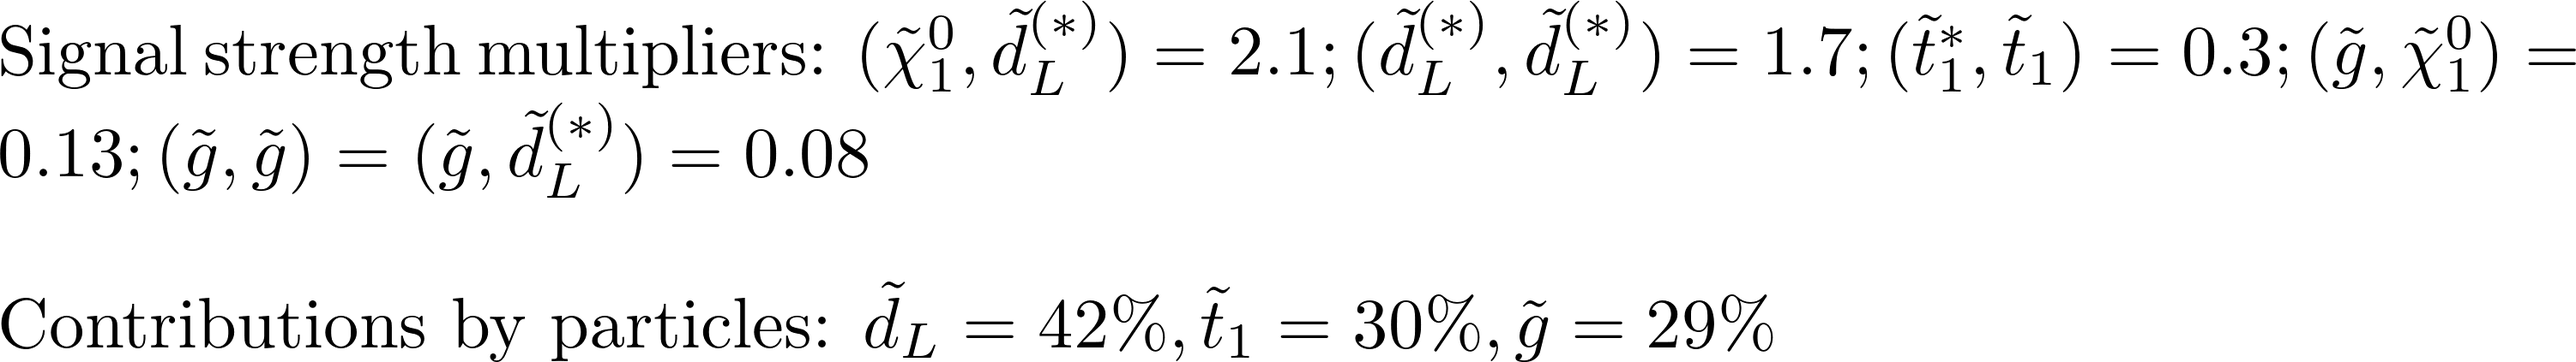
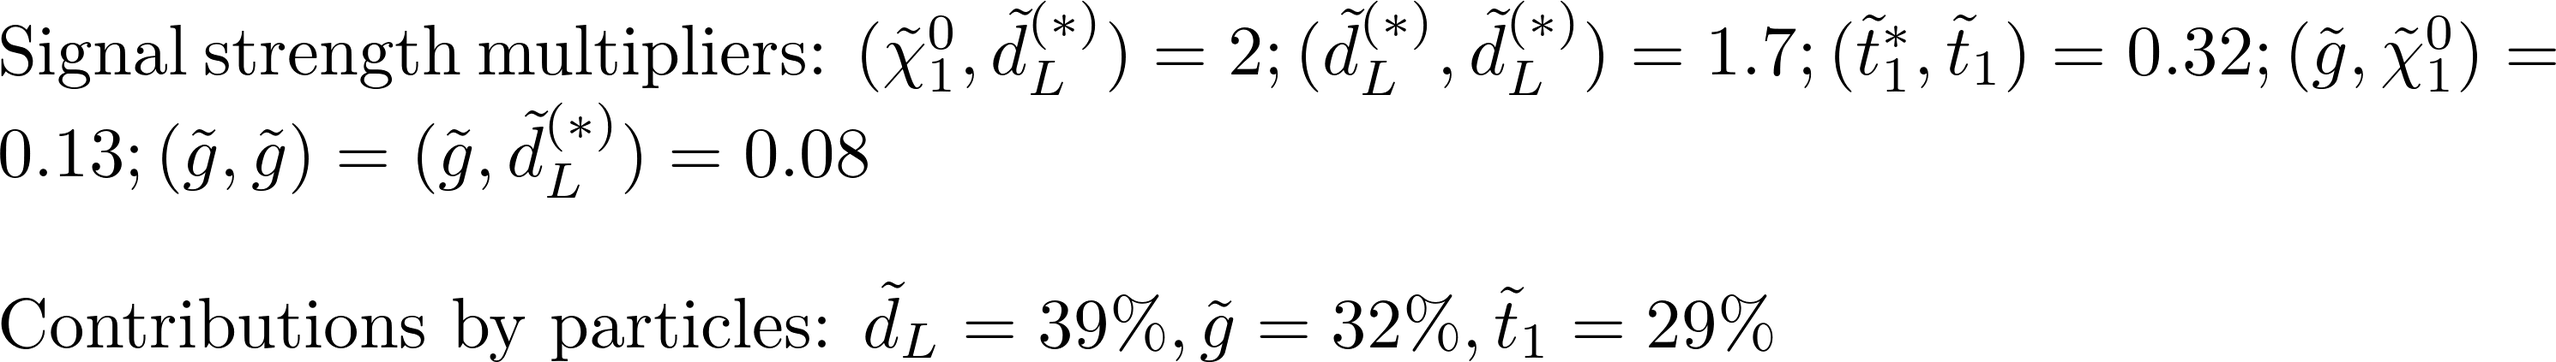
automated update by plotHiscore.py

diff --git a/protomodels/latestsignal/index.html b/protomodels/latestsignal/index.html
@@ -1,32 +1,32 @@
 <html>
 <body>
 <center>
-<table><td><h1>Current best protomodel: K=5.30, Z=3.03</h1><td><img height=60px src=https://smodels.github.io/pics/banner.png></table>
+<table><td><h1>Current best protomodel: K=5.33, Z=3.03</h1><td><img height=60px src=https://smodels.github.io/pics/banner.png></table>
 </center>
-<b><a href=./hiscore.slha>ProtoModel</a> <a href=./pmodel.py>(dict)</a> produced with <a href=https://smodels.github.io/docs/Validation123signal1>database v1.2.3signal1</a>, combination strategy <a href=./matrix_aggressive.png>aggressive</a> in step 73.</b> Z plots for: <a href=./M1000022.png?1707035>~&chi;<sub>1</sub><sup>0</sup></a>, <a href=./M1000021.png?1707035>~g</a>, <a href=./M1000006.png?1707035>~t<sub>1</sub></a>, <a href=./M1000001.png?1707035>~d<sub>L</sub></a>. HPD plots for: <a href=./llhd1000021.png?1707035>~g</a>, <a href=./llhd1000006.png?1707035>~t<sub>1</sub></a>, <a href=./llhd1000001.png?1707035>~d<sub>L</sub></a>. SSM plots for: <a href=./ssm_1000021_1000021.png?1707035>(~g,~g)</a>, <a href=./ssm_-1000006_1000006.png?1707035>(~t<sub>1</sub><sup>*</sup>,~t<sub>1</sub>)</a><br>
+<b><a href=./hiscore.slha>ProtoModel</a> <a href=./pmodel.py>(dict)</a> produced with <a href=https://smodels.github.io/docs/Validation123signal1>database v1.2.3signal1</a>, combination strategy <a href=./matrix_aggressive.png>aggressive</a> in step 74.</b> Z plots for: <a href=./M1000022.png?1712981>~&chi;<sub>1</sub><sup>0</sup></a>, <a href=./M1000021.png?1712981>~g</a>, <a href=./M1000006.png?1712981>~t<sub>1</sub></a>, <a href=./M1000001.png?1712981>~d<sub>L</sub></a>. HPD plots for: <a href=./llhd1000021.png?1712981>~g</a>, <a href=./llhd1000006.png?1712981>~t<sub>1</sub></a>, <a href=./llhd1000001.png?1712981>~d<sub>L</sub></a>. SSM plots for: <a href=./ssm_1000021_1000021.png?1712981>(~g,~g)</a>, <a href=./ssm_-1000006_1000006.png?1712981>(~t<sub>1</sub><sup>*</sup>,~t<sub>1</sub>)</a><br>
 <table width=80%>
 <tr><td>
 <br><b>63 predictions available. Highest r values are:</b><br><ul>
-<li><a href=http://cms-results.web.cern.ch/cms-results/public-results/publications/SUS-16-033/index.html>CMS-SUS-16-033</a>:T2tt,T2,T1bbbb,TGQ,T1 r=1.70, r<sub>exp</sub>=1.87<br>
-<li><a href=https://atlas.web.cern.ch/Atlas/GROUPS/PHYSICS/PAPERS/SUSY-2016-07/>ATLAS-SUSY-2016-07</a>:TGQ,T1,T2 r=1.70, r<sub>exp</sub>=2.18<br>
-<li><a href=http://cms-results.web.cern.ch/cms-results/public-results/publications/SUS-16-036/index.html>CMS-SUS-16-036</a>:T2 r=1.68, r<sub>exp</sub>=1.77<br>
-<li><a href=http://cms-results.web.cern.ch/cms-results/public-results/publications/SUS-19-006/index.html>CMS-SUS-19-006</a>:T1bbbb r=1.64, r<sub>exp</sub>=0.82<br>
-<li><a href=http://cms-results.web.cern.ch/cms-results/public-results/publications/SUS-16-051/index.html>CMS-SUS-16-051</a>:T2tt r=1.58, r<sub>exp</sub>=0.47<br>
+<li><a href=http://cms-results.web.cern.ch/cms-results/public-results/publications/SUS-16-051/index.html>CMS-SUS-16-051</a>:T2tt r=1.70, r<sub>exp</sub>=0.50<br>
+<li><a href=http://cms-results.web.cern.ch/cms-results/public-results/publications/SUS-16-033/index.html>CMS-SUS-16-033</a>:T1,T1bbbb,T2tt,T2,TGQ r=1.68, r<sub>exp</sub>=1.86<br>
+<li><a href=https://atlas.web.cern.ch/Atlas/GROUPS/PHYSICS/PAPERS/SUSY-2016-07/>ATLAS-SUSY-2016-07</a>:TGQ,T2,T1 r=1.68, r<sub>exp</sub>=2.16<br>
+<li><a href=http://cms-results.web.cern.ch/cms-results/public-results/publications/SUS-16-036/index.html>CMS-SUS-16-036</a>:T2 r=1.66, r<sub>exp</sub>=1.75<br>
+<li><a href=http://cms-results.web.cern.ch/cms-results/public-results/publications/SUS-19-006/index.html>CMS-SUS-19-006</a>:T1bbbb r=1.62, r<sub>exp</sub>=0.81<br>
 </ul>
 <td><br><b>Contributions per analysis:</b><br>
 <ul>
-<li> <a href=http://cms-results.web.cern.ch/cms-results/public-results/publications/SUS-17-010>CMS-SUS-17-010</a>: 87%
-<li> <a href=http://atlas.web.cern.ch/Atlas/GROUPS/PHYSICS/PAPERS/SUSY-2015-06/>ATLAS-SUSY-2015-06</a>: 72%
-<li> <a href=https://atlas.web.cern.ch/Atlas/GROUPS/PHYSICS/PAPERS/SUSY-2013-15/>ATLAS-SUSY-2013-15</a>: 44%
-<li> <a href=https://atlas.web.cern.ch/Atlas/GROUPS/PHYSICS/PAPERS/SUSY-2016-16/>ATLAS-SUSY-2016-16</a>: -6%
-<li> <a href=https://atlas.web.cern.ch/Atlas/GROUPS/PHYSICS/PAPERS/SUSY-2013-02/>ATLAS-SUSY-2013-02</a>: -10%
-<li> <a href=https://twiki.cern.ch/twiki/bin/view/CMSPublic/PhysicsResultsSUS13012>CMS-SUS-13-012</a>: -33%
-<li> <a href=http://cms-results.web.cern.ch/cms-results/public-results/publications/SUS-16-033/index.html>CMS-SUS-16-033</a>: -55%
-<td><img width=600px src=./texdoc.png?1594707035>
-<br><font size=-1>Last updated: Tue Jul 14 08:10:35 2020</font>
+<li> <a href=http://cms-results.web.cern.ch/cms-results/public-results/publications/SUS-17-010>CMS-SUS-17-010</a>: 112%
+<li> <a href=http://atlas.web.cern.ch/Atlas/GROUPS/PHYSICS/PAPERS/SUSY-2015-06/>ATLAS-SUSY-2015-06</a>: 90%
+<li> <a href=https://atlas.web.cern.ch/Atlas/GROUPS/PHYSICS/PAPERS/SUSY-2013-15/>ATLAS-SUSY-2013-15</a>: 52%
+<li> <a href=https://atlas.web.cern.ch/Atlas/GROUPS/PHYSICS/PAPERS/SUSY-2016-16/>ATLAS-SUSY-2016-16</a>: -9%
+<li> <a href=https://atlas.web.cern.ch/Atlas/GROUPS/PHYSICS/PAPERS/SUSY-2013-02/>ATLAS-SUSY-2013-02</a>: -16%
+<li> <a href=https://twiki.cern.ch/twiki/bin/view/CMSPublic/PhysicsResultsSUS13012>CMS-SUS-13-012</a>: -46%
+<li> <a href=http://cms-results.web.cern.ch/cms-results/public-results/publications/SUS-16-033/index.html>CMS-SUS-16-033</a>: -83%
+<td><img width=600px src=./texdoc.png?1594712981>
+<br><font size=-1>Last updated: Tue Jul 14 09:49:41 2020</font>
 </table><table style="width:80%">
-<td width=45%><img height=580px src=./ruler.png?1594707035><td width=55%><img height=380px src=./decays.png?1594707035>
-<font size=-3><iframe type="text/html" height="220px" width="100%s" frameborder="0" src="./rawnumbers.html?1594707035"></iframe></font>
+<td width=45%><img height=580px src=./ruler.png?1594712981><td width=55%><img height=380px src=./decays.png?1594712981>
+<font size=-3><iframe type="text/html" height="220px" width="100%s" frameborder="0" src="./rawnumbers.html?1594712981"></iframe></font>
 </table>
 </body>
 </html>

diff --git a/protomodels/latestsignal/pmodel.py b/protomodels/latestsignal/pmodel.py
@@ -1,1 +1,1 @@
-{'masses': {1000001: 466.677, 1000006: 708.899, 1000021: 1247.159, 1000022: 364.564}, 'ssmultipliers': {(1000001, 1000001): 1.678, (-1000001, 1000001): 1.678, (1000001, 1000006): 1.867, (-1000006, 1000001): 1.867, (1000001, 1000021): 0.076, (1000001, 1000022): 2.055, (-1000001, -1000001): 1.678, (-1000001, 1000006): 1.867, (-1000006, -1000001): 1.867, (-1000001, 1000021): 0.076, (-1000001, 1000022): 2.055, (1000006, 1000006): 0.3, (-1000006, 1000006): 0.3, (1000006, 1000021): 0.239, (1000006, 1000022): 0.39, (-1000006, -1000006): 0.3, (-1000006, 1000021): 0.239, (-1000006, 1000022): 0.39, (1000021, 1000021): 0.079, (1000021, 1000022): 0.132, (1000022, 1000022): 0.377}, 'decays': {1000001: {1000022: 1.0}, 1000006: {1000022: 1.0}, 1000021: {(1000022, 1): 0.485, (1000022, 4): 0.001, (1000022, 5): 0.488, (1000022, 6): 0.013, (1000022, 21): 0.014}, 1000022: {}}, 'timestamp': 'Tue Jul 14 08:10:29 2020', 'Z': 3.025, 'K': 5.298, 'step': 73}
+{'masses': {1000001: 466.677, 1000006: 708.899, 1000021: 1247.159, 1000022: 364.564}, 'ssmultipliers': {(1000001, 1000001): 1.66, (-1000001, 1000001): 1.66, (1000001, 1000006): 2.005, (-1000006, 1000001): 2.005, (1000001, 1000021): 0.075, (1000001, 1000022): 2.033, (-1000001, -1000001): 1.66, (-1000001, 1000006): 2.005, (-1000006, -1000001): 2.005, (-1000001, 1000021): 0.075, (-1000001, 1000022): 2.033, (1000006, 1000006): 0.322, (-1000006, 1000006): 0.322, (1000006, 1000021): 0.257, (1000006, 1000022): 0.419, (-1000006, -1000006): 0.322, (-1000006, 1000021): 0.257, (-1000006, 1000022): 0.419, (1000021, 1000021): 0.078, (1000021, 1000022): 0.131, (1000022, 1000022): 0.373}, 'decays': {1000001: {1000022: 1.0}, 1000006: {1000022: 1.0}, 1000021: {(1000022, 1): 0.485, (1000022, 4): 0.001, (1000022, 5): 0.488, (1000022, 6): 0.013, (1000022, 21): 0.014}, 1000022: {}}, 'timestamp': 'Tue Jul 14 09:49:35 2020', 'Z': 3.031, 'K': 5.331, 'step': 74}
